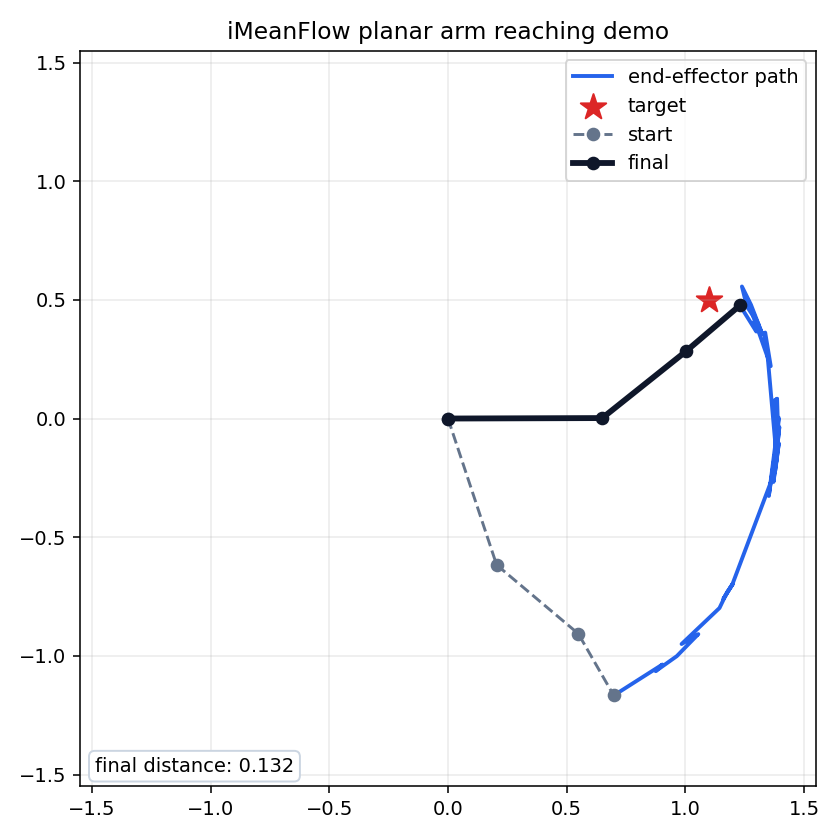
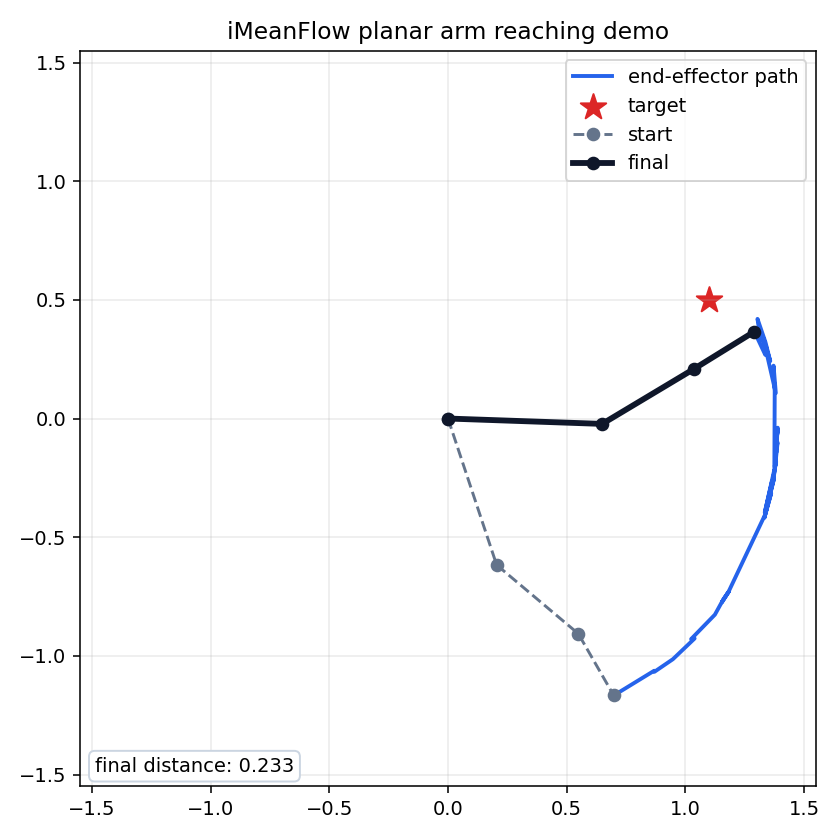
Smooth planar arm rollout demo

diff --git a/scripts/sim_demo.py b/scripts/sim_demo.py
@@ -39,6 +39,9 @@ def parse_args() -> argparse.Namespace:
     parser.add_argument("--num-inference-steps", type=int, default=4)
     parser.add_argument("--num-candidates", type=int, default=1)
     parser.add_argument("--rollout-seed", type=int, default=7)
+    parser.add_argument("--control-cycles", type=int, default=12)
+    parser.add_argument("--tracking-gain", type=float, default=0.70)
+    parser.add_argument("--max-joint-step", type=float, default=0.25)
     return parser.parse_args()
 
 
@@ -174,10 +177,12 @@ def main() -> None:
         arm=arm,
         initial_joints=initial_joints,
         target_xy=target_xy,
-        control_cycles=12,
+        control_cycles=args.control_cycles,
         execute_steps=policy.config.n_action_steps,
         num_inference_steps=args.num_inference_steps,
         num_candidates=args.num_candidates,
+        tracking_gain=args.tracking_gain,
+        max_joint_step=args.max_joint_step,
     )
 
     png_path = args.output_dir / "planar_arm_demo.png"

diff --git a/src/imeanflow_robotics/sim.py b/src/imeanflow_robotics/sim.py
@@ -142,6 +142,8 @@ def rollout_planar_policy(
     execute_steps: int = 4,
     num_inference_steps: int | None = None,
     num_candidates: int = 1,
+    tracking_gain: float = 0.70,
+    max_joint_step: float = 0.25,
 ) -> RolloutResult:
     """Run receding-horizon control with generated action chunks."""
     device = policy.device
@@ -160,7 +162,9 @@ def rollout_planar_policy(
         else:
             chunk = policy.sample_action_chunk(obs, num_steps=num_inference_steps)[0]
         for command in chunk[:execute_steps]:
-            joints = joints + 0.85 * (command - joints)
+            delta = tracking_gain * (command - joints)
+            delta = torch.clamp(delta, min=-max_joint_step, max=max_joint_step)
+            joints = joints + delta
             joints = torch.clamp(joints, -math.pi, math.pi)
             joint_history.append(joints.detach().cpu())
 

diff --git a/tests/test_sim.py b/tests/test_sim.py
@@ -33,6 +33,7 @@ def test_planar_rollout_shapes():
         target_xy=torch.tensor([0.6, 0.4]),
         control_cycles=2,
         execute_steps=2,
+        max_joint_step=0.2,
     )
 
     assert result.joints.shape == (5, 3)

diff --git a/README.md b/README.md
@@ -151,7 +151,9 @@ assets/planar_arm_demo.gif
 The demo is a kinematic simulation, not a physics benchmark. Its purpose is to
 show the policy generating action chunks that move a simple robot arm toward a
 target. The default rollout uses 4 model evaluations per chunk and a fixed seed
-for reproducible visualization.
+for reproducible visualization. A small joint-step limiter is applied during
+rollout, matching the kind of low-level command smoothing used in real robot
+control loops.
 
 ## Example Code
 
